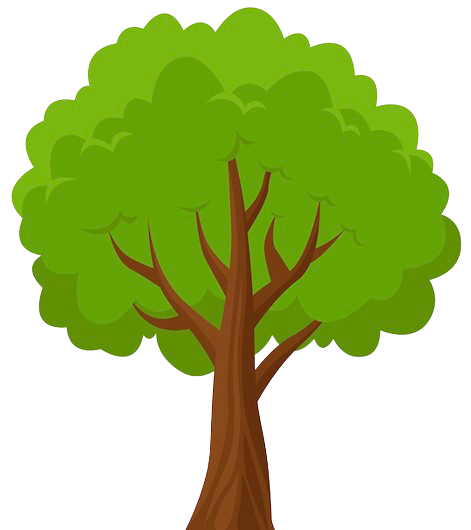
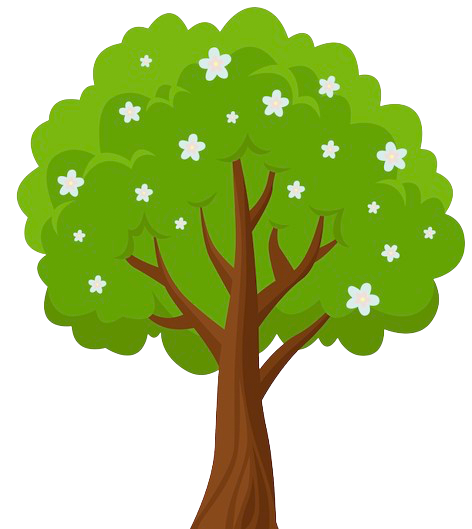
Rearranged trees

diff --git a/lib/features/liveSession/live_session_screen.dart b/lib/features/liveSession/live_session_screen.dart
@@ -43,26 +43,26 @@ class _LiveSessionScreenState extends State<LiveSessionScreen>
         //setState(() => growthLevel = _animationController.value.toInt());
         if (_parseTimer((setDuration * _animationController.value)) ==
             "04:50") {
-          setState(() => growthLevel = 2);
+          setState(() => growthLevel = 1);
         }
         if (_parseTimer((setDuration * _animationController.value)) == "9:50") {
-          setState(() => growthLevel = 3);
+          setState(() => growthLevel = 2);
         }
         if (_parseTimer((setDuration * _animationController.value)) ==
             "24:50") {
-          setState(() => growthLevel = 4);
+          setState(() => growthLevel = 3);
         }
         if (_parseTimer((setDuration * _animationController.value)) ==
             "34:50") {
-          setState(() => growthLevel = 5);
+          setState(() => growthLevel = 4);
         }
         if (_parseTimer((setDuration * _animationController.value)) ==
             "44:50") {
-          setState(() => growthLevel = 6);
+          setState(() => growthLevel = 5);
         }
         if (_parseTimer((setDuration * _animationController.value)) ==
             "55:00") {
-          setState(() => growthLevel = 7);
+          setState(() => growthLevel = 6);
         }
       }
       if (_animationController.isCompleted) {

diff --git a/lib/features/treeGrowth/tree_growth_home_widget.dart b/lib/features/treeGrowth/tree_growth_home_widget.dart
@@ -1,10 +1,4 @@
-import 'dart:math';
-
-import 'package:eco_focus/features/home/home_screen_view_model.dart';
-import 'package:eco_focus/features/treeGrowth/tree_growth_view_model.dart';
-import 'package:eco_focus/models/session/session_model.dart';
 import 'package:flutter/material.dart';
-import 'package:provider/provider.dart';
 
 class TreeGrowthHomeWidget extends StatefulWidget {
   final List<Widget> plantedTrees;

diff --git a/lib/features/home/home_screen_view_model.dart b/lib/features/home/home_screen_view_model.dart
@@ -94,7 +94,7 @@ class HomeScreenViewModel extends ChangeNotifier {
       filteredTrees.add(Positioned(
         left: randomLeft,
         child: Image.asset(
-          'assets/images/tree-${(int.parse(element.treeGrowthLevel) + 1).toString()}.png',
+          'assets/images/tree-${element.treeGrowthLevel}.png',
           height: 150.0,
           width: 150.0,
           fit: BoxFit.contain,
